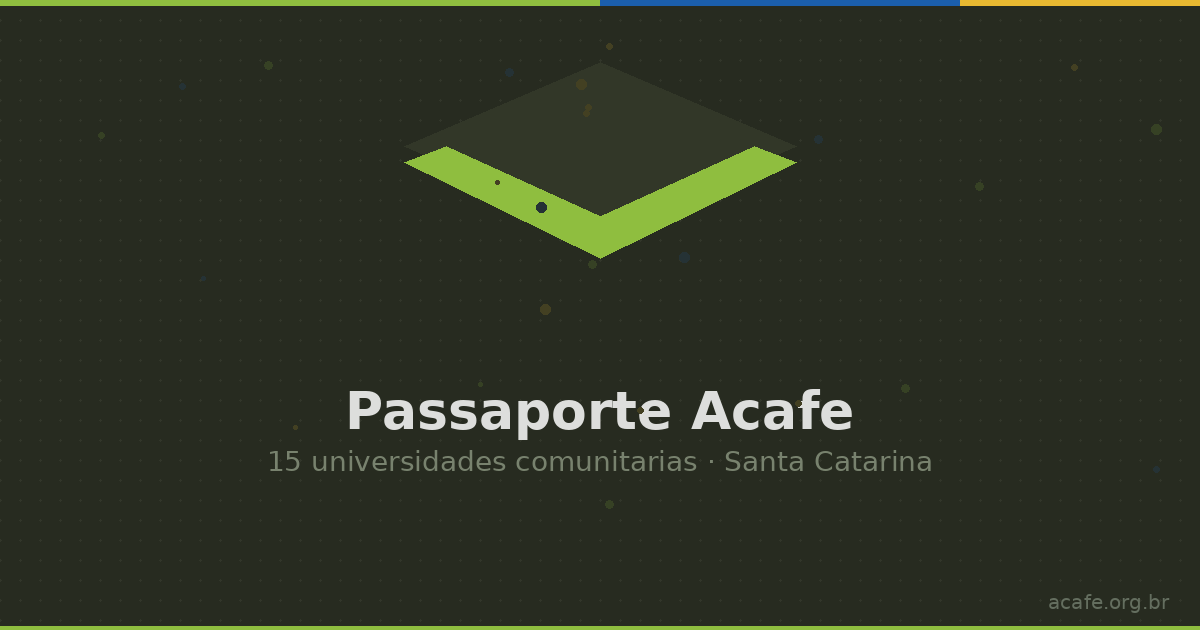
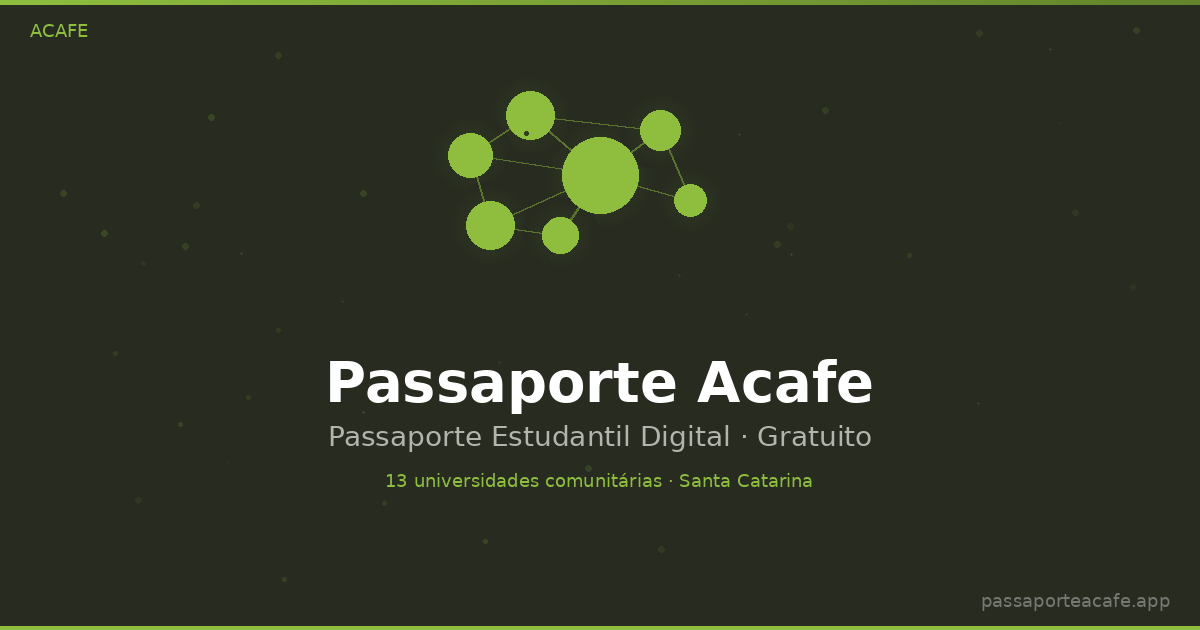
Proteções extras + ícones/SEO profissionais
Segurança:
- validations.ts: sanitização reforçada (null bytes, tags, JS patterns)
- imageOptimization.ts: validação de extensão + limite 10MB
- api/.htaccess: bloqueia config, SQL, logs; desabilita listagem; X-Robots-Tag
- robots.txt: bloqueia /api/ de crawlers

SEO/Mídias:
- og-image.png: redesenhado com constelação ACAFE, texto correto (13 universidades)
- Todos os ícones PWA regenerados com identidade ACAFE constellation
- favicon.svg: atualizado com constelação molecular ACAFE

https://claude.ai/code/session_01Tti8S6Di9ej66FAF6jkmEU

diff --git a/src/lib/imageOptimization.ts b/src/lib/imageOptimization.ts
@@ -20,6 +20,20 @@ export const compressImage = async (
       return;
     }
 
+    // 3. Validar extensão do arquivo como camada extra
+    const ext = file.name.split('.').pop()?.toLowerCase() ?? '';
+    const allowedExt = ['jpg', 'jpeg', 'png', 'gif', 'webp', 'bmp', 'tiff'];
+    if (file.name.includes('.') && !allowedExt.includes(ext)) {
+      reject(new Error('Extensão de arquivo não permitida.'));
+      return;
+    }
+
+    // 4. Limite de tamanho (10MB)
+    if (file.size > 10 * 1024 * 1024) {
+      reject(new Error('Arquivo muito grande. Máximo 10MB.'));
+      return;
+    }
+
     const reader = new FileReader();
     reader.readAsDataURL(file);
     

diff --git a/src/lib/validations.ts b/src/lib/validations.ts
@@ -2,7 +2,17 @@ import { z } from 'zod';
 
 const sanitizeString = (val: string) => {
   if (typeof val !== 'string') return val;
-  return val.trim().replace(/[<>]/g, '').replace(/\s+/g, ' ');
+  let s = val.trim();
+  // Remove null bytes and control characters
+  s = s.replace(/[\0\x00-\x08\x0B\x0C\x0E-\x1F\x7F]/g, '');
+  // Strip HTML/XML tags
+  s = s.replace(/<[^>]*>?/g, '');
+  // Remove JS/event injection patterns
+  s = s.replace(/(?:javascript|vbscript|data)\s*:/gi, '');
+  s = s.replace(/on\w+\s*=/gi, '');
+  // Collapse whitespace
+  s = s.replace(/\s+/g, ' ');
+  return s;
 };
 
 export const passportSchema = z.object({
